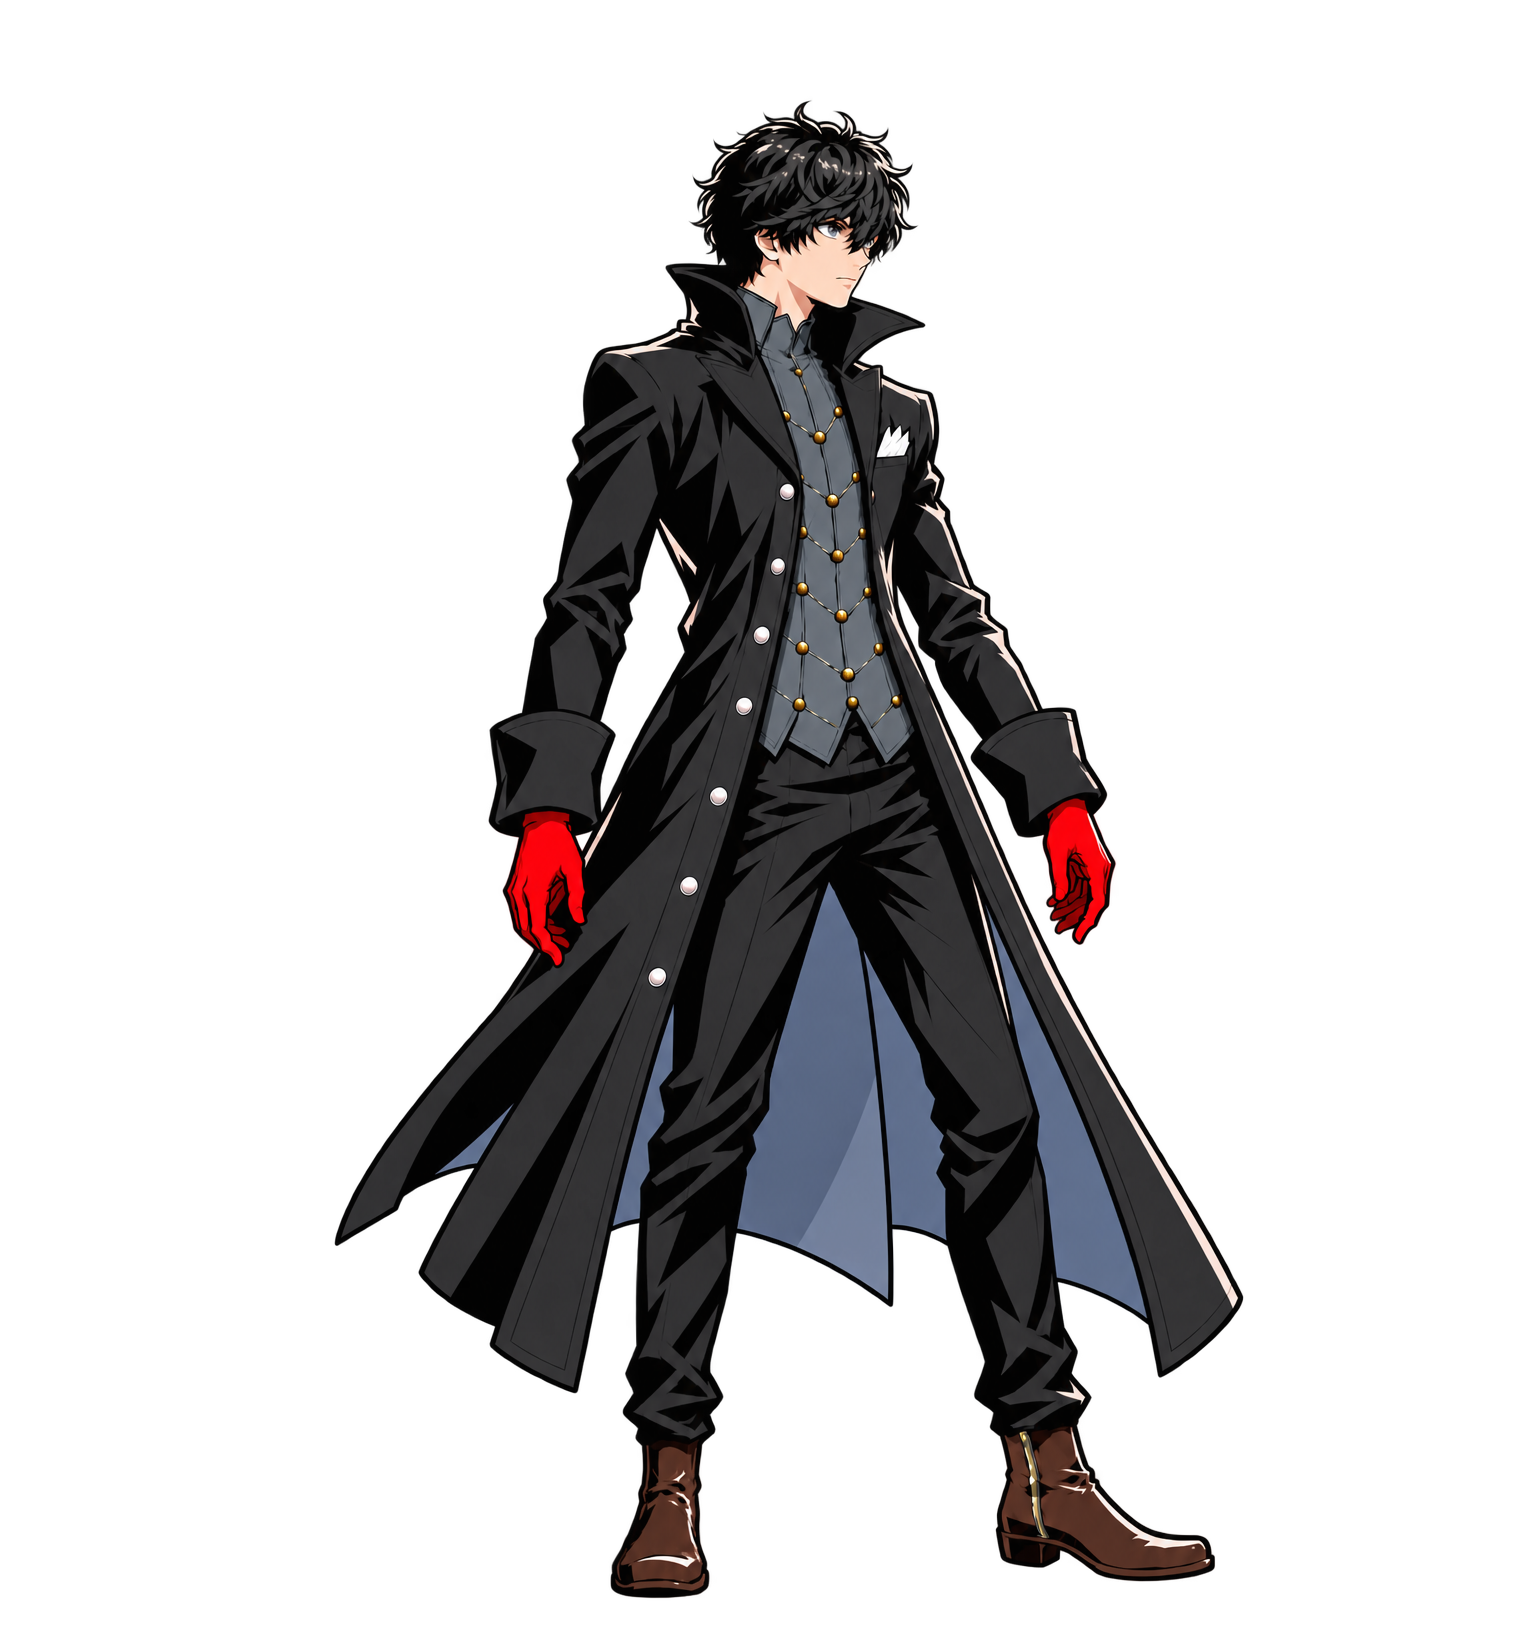
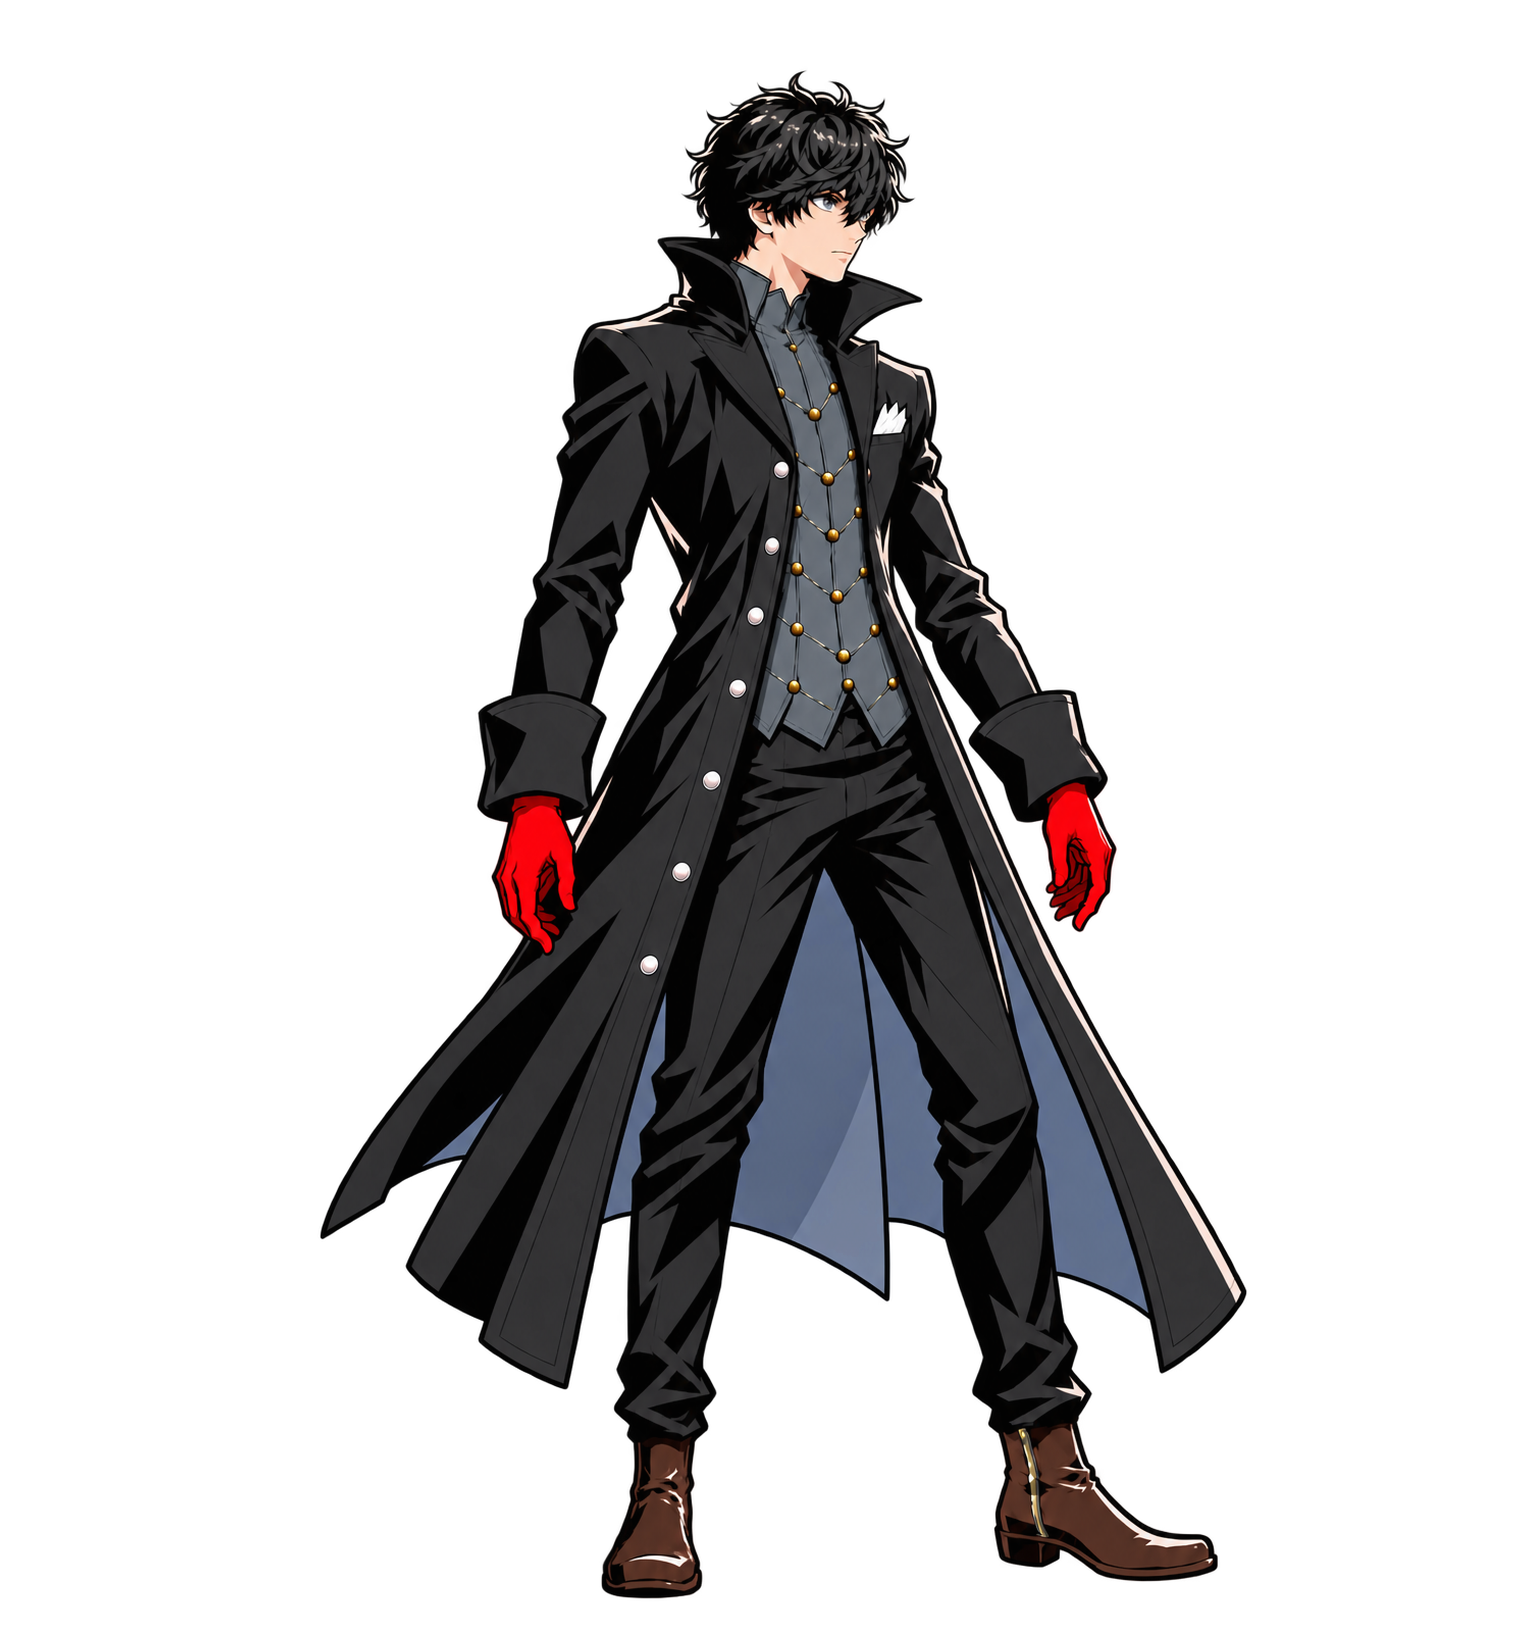
art: P5 summon down2_c/down3_c scaled to match
Claude-Session: https://claude.ai/code/session_01Nam5m2bn9ofCCWTGM6fwcN

diff --git a/tools/p5/normalize_poses.py b/tools/p5/normalize_poses.py
@@ -36,7 +36,7 @@ POSES = {'idle_a3': (1.0, 'rear'), 'guard_a2': (1.0, 'front'), 'knife_ready_a': 
          'summon_open1_b': (1.0, 'front'), 'summon_open2_b': (1.0, 'front'),
          'summon_release_b': (1.03, 'front'), 'summon_settle_b': (1.033, 'front'),
          'summon_down1_b': (1.03, 'front'), 'summon_down2_b': (1.03, 'front'), 'summon_down3_b': (1.0, 'front'),
-         'summon_down2_c': (1.0, 'front'), 'summon_down3_c': (1.0, 'front')}
+         'summon_down2_c': (1.015, 'front'), 'summon_down3_c': (1.02, 'front')}
 
 
 def load(n):
